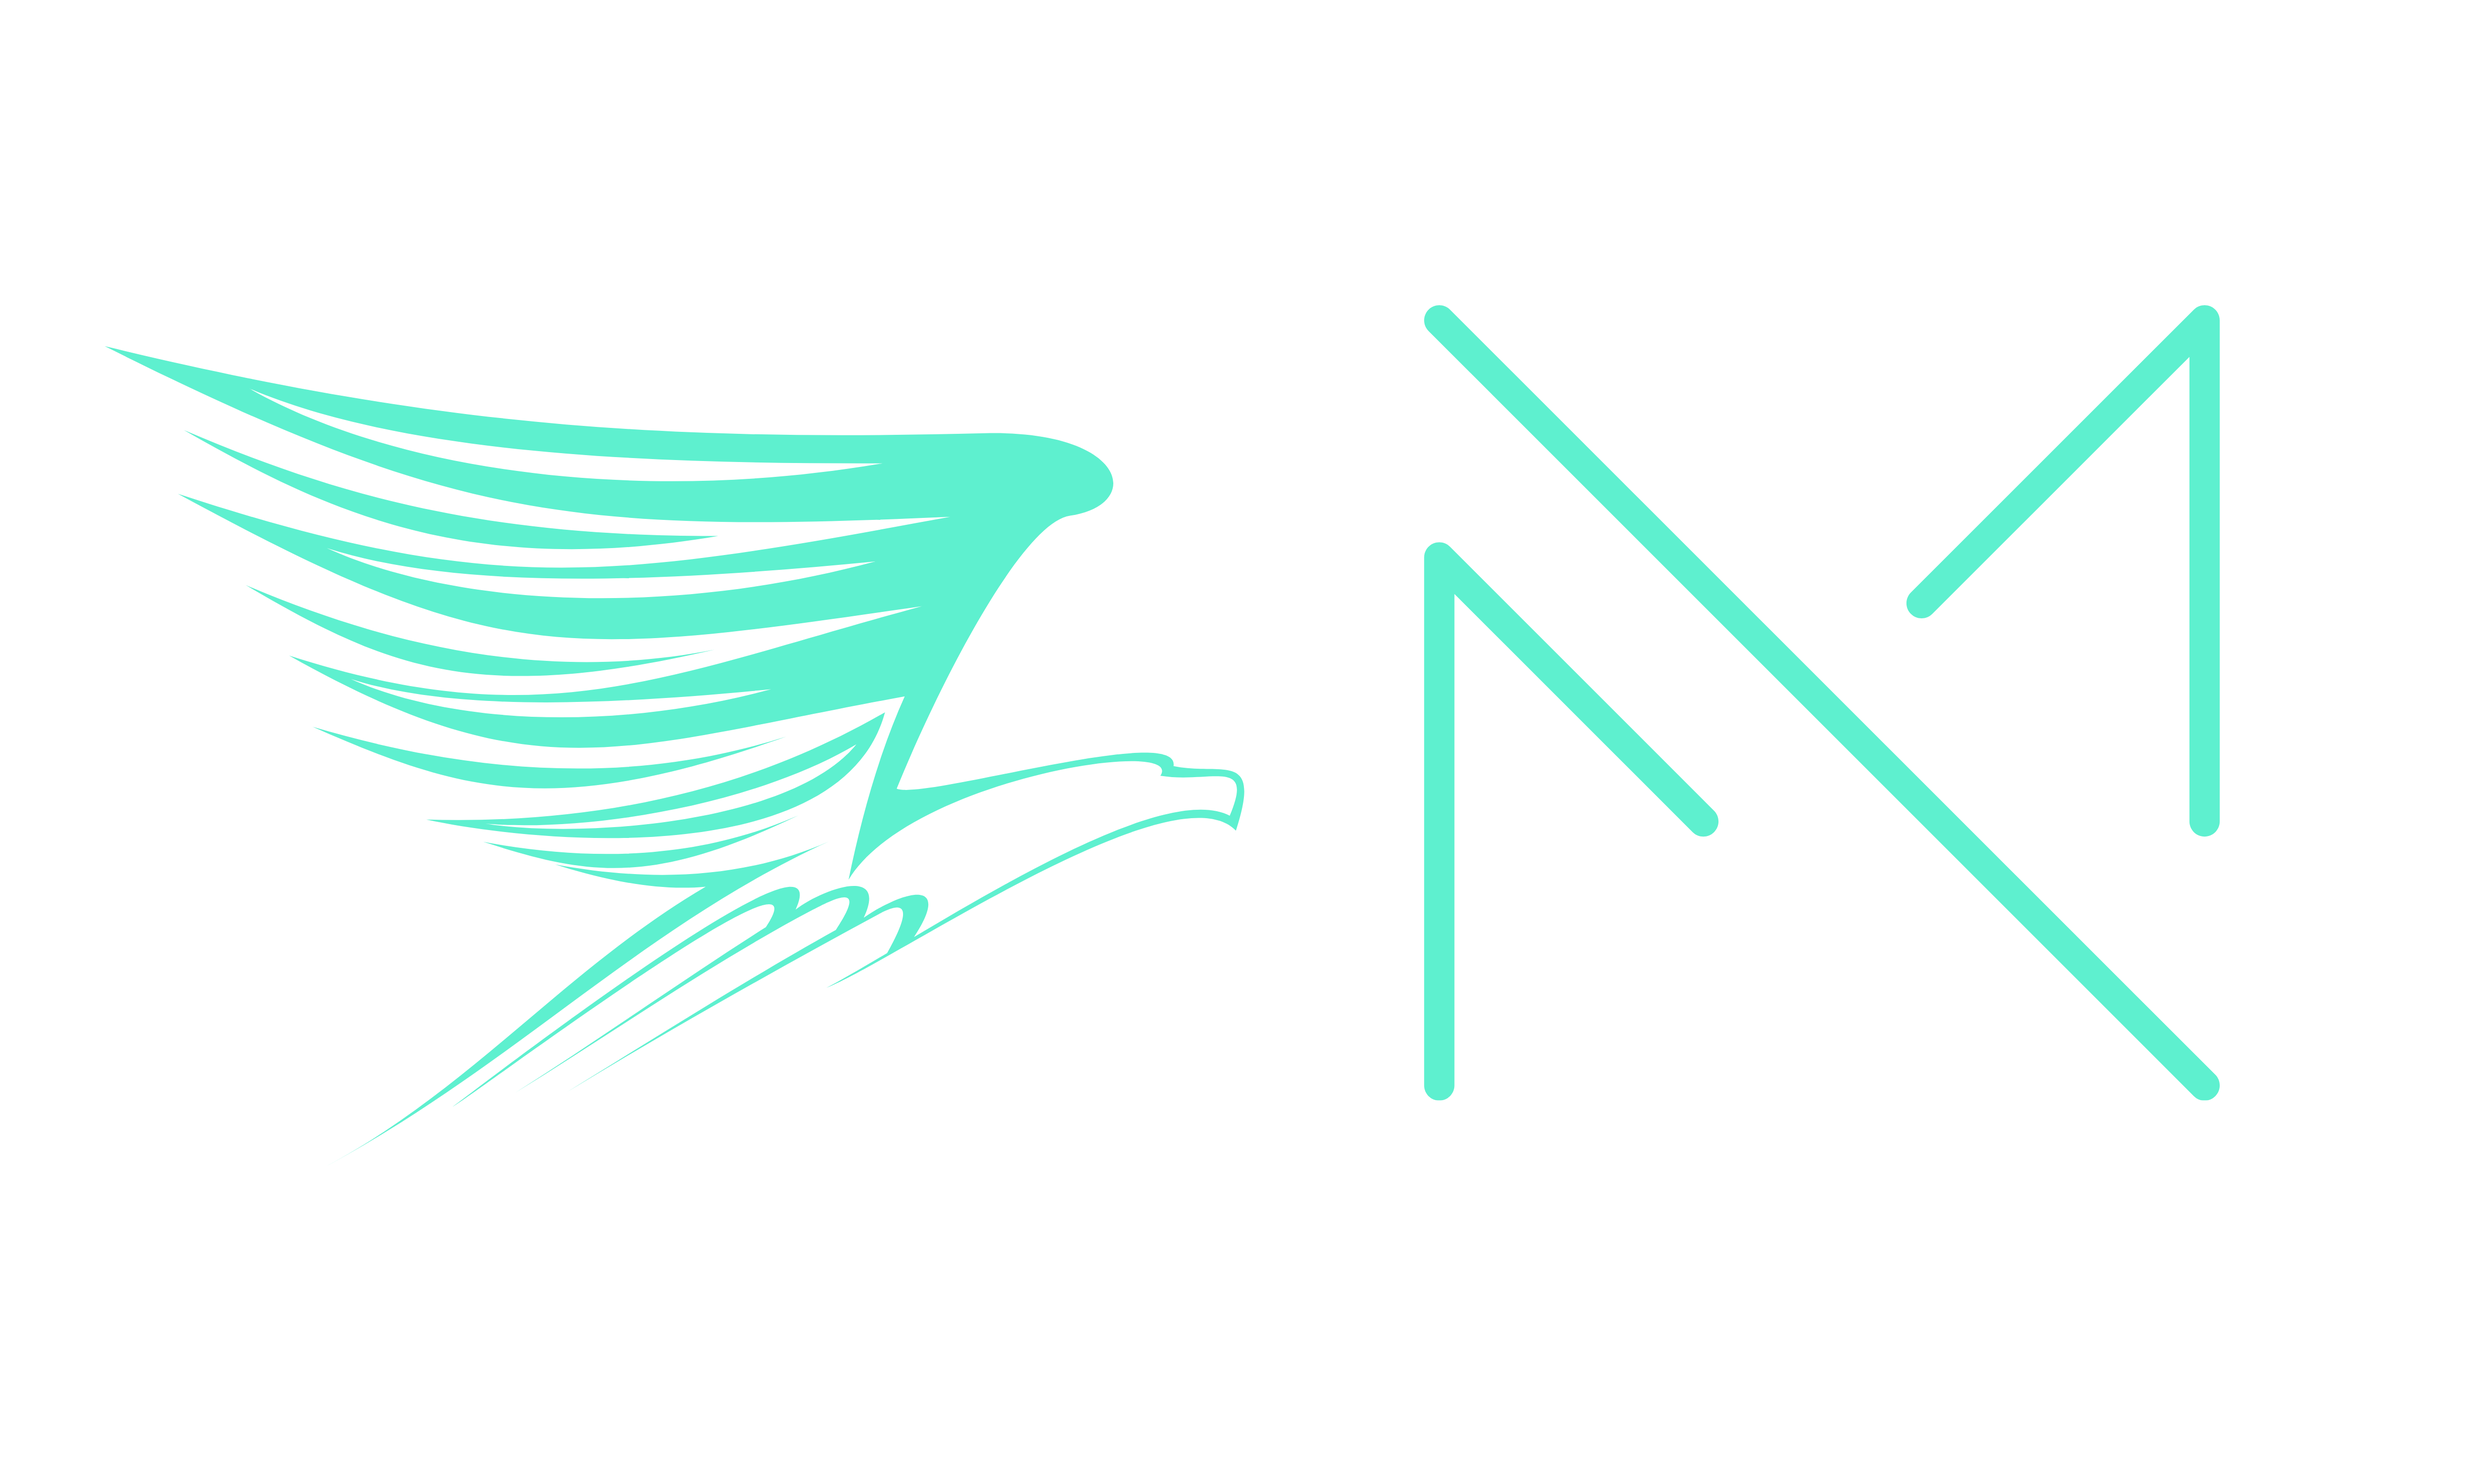
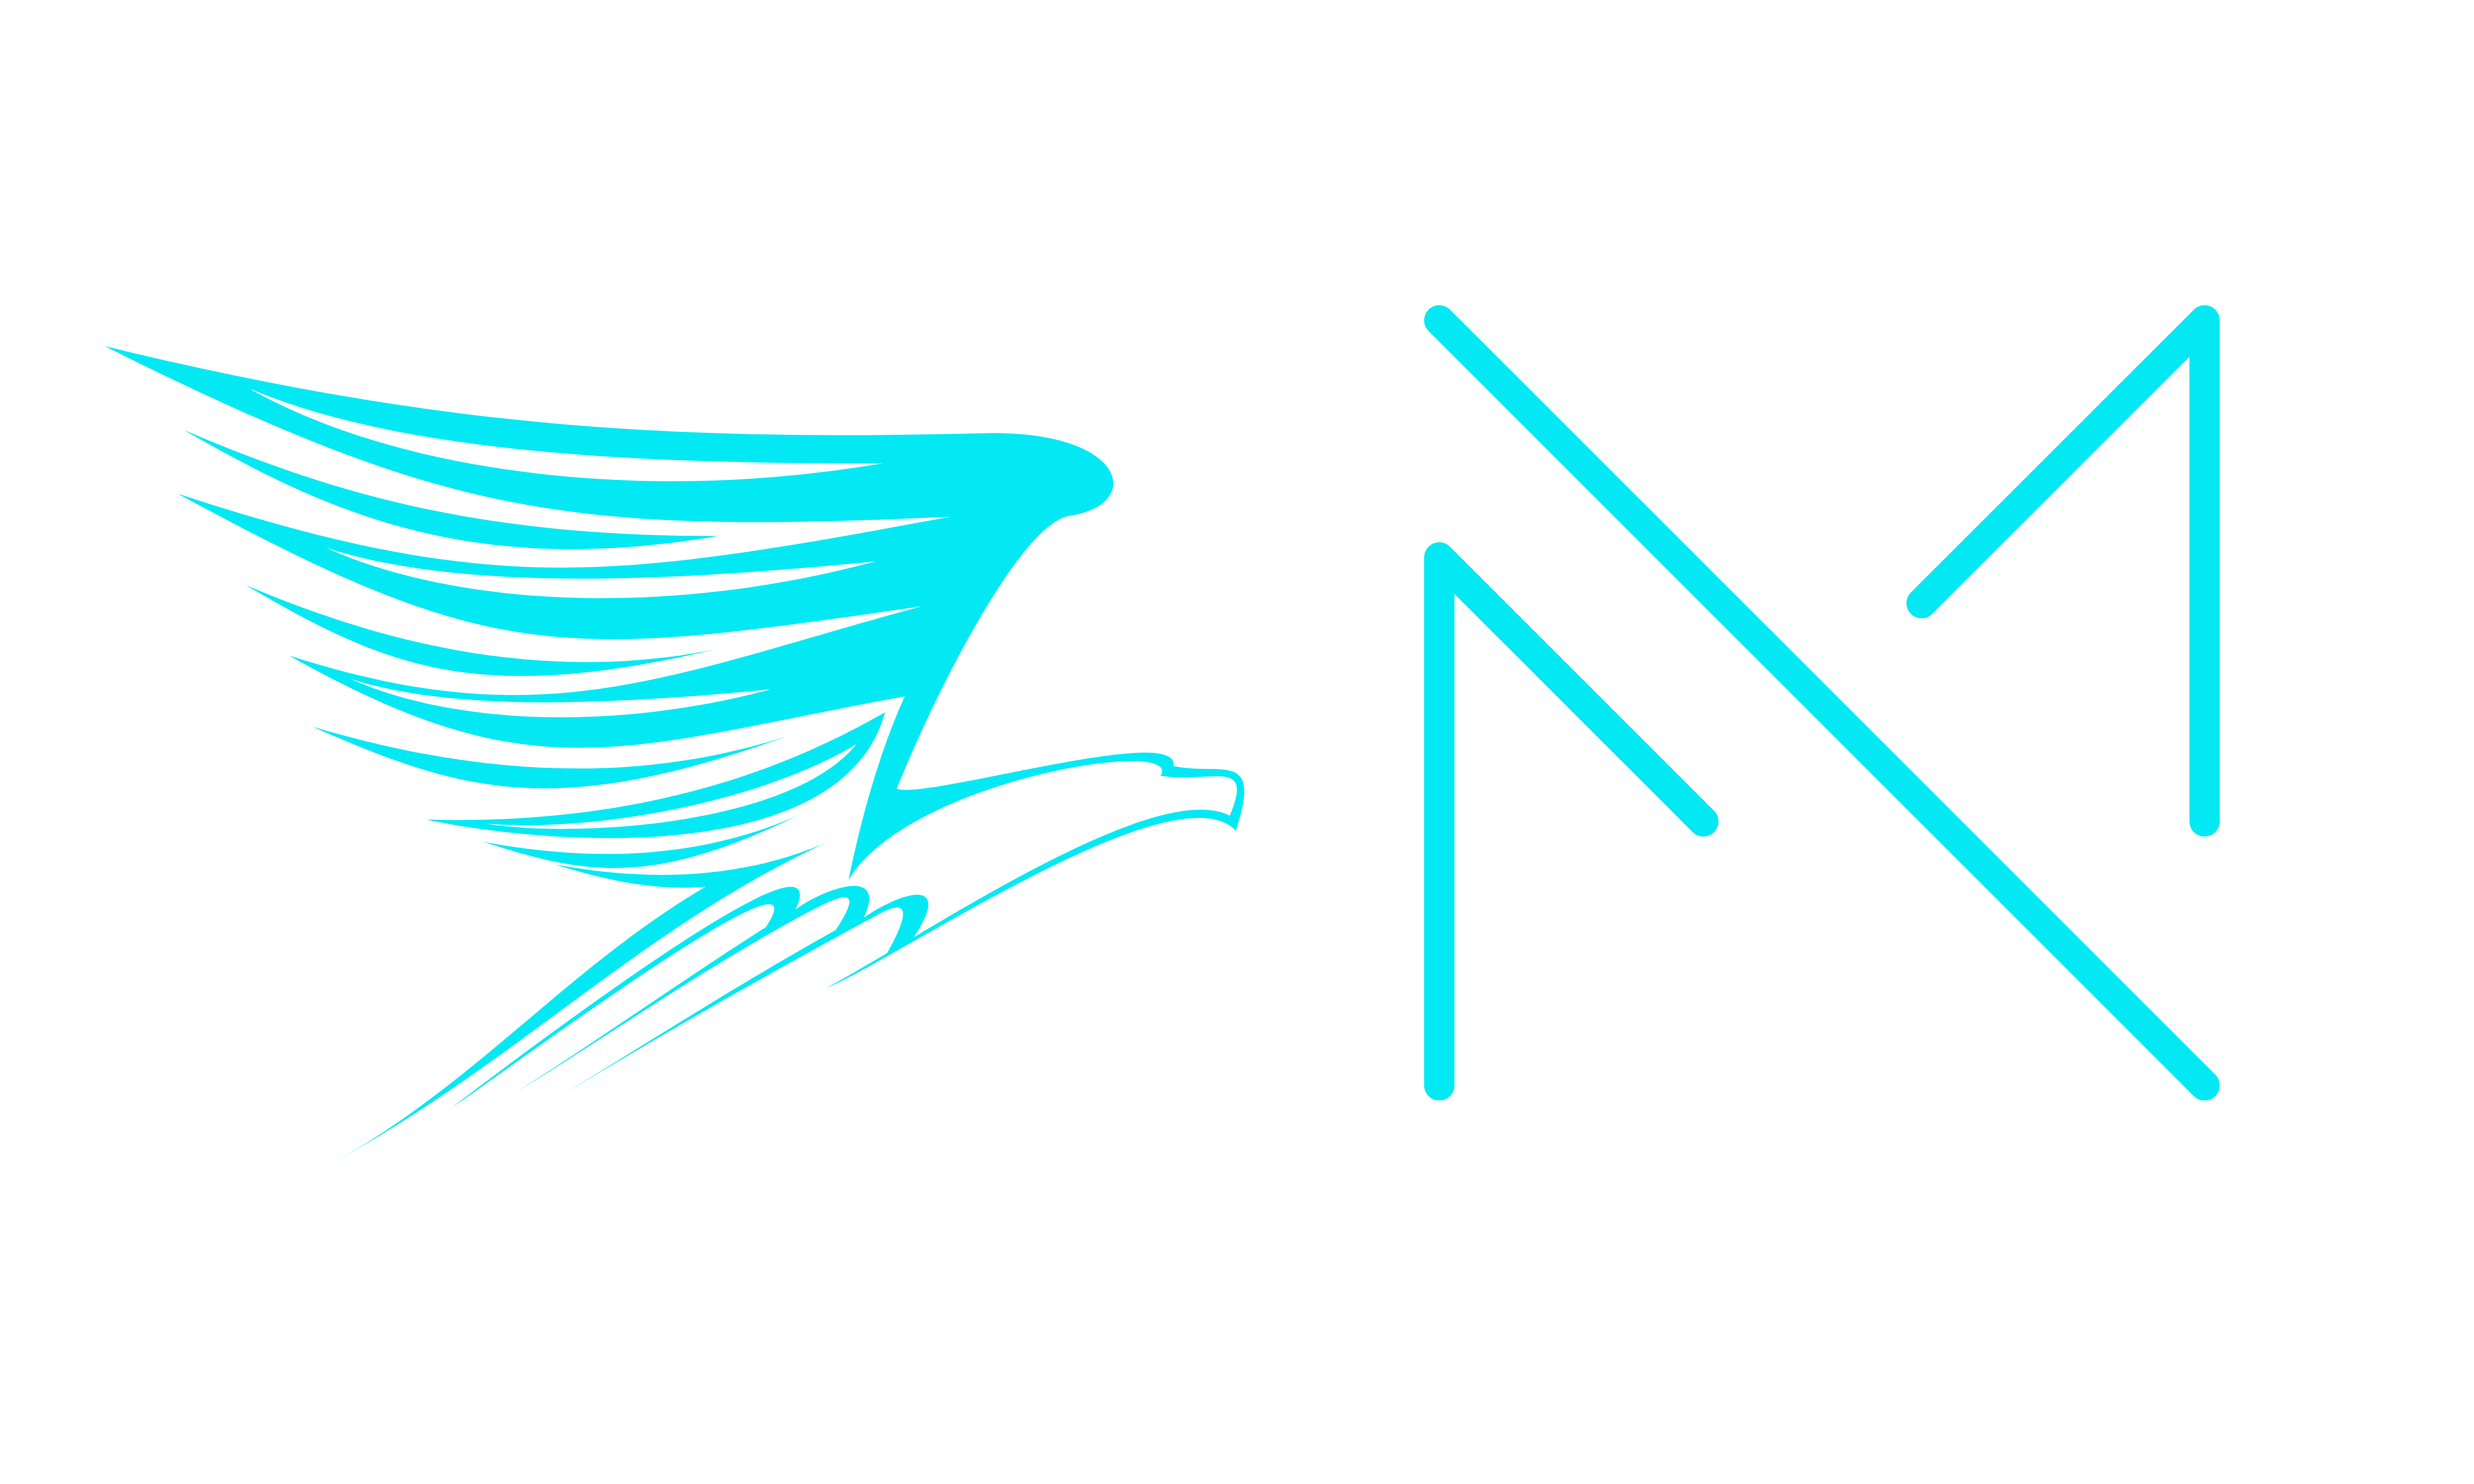
updated

diff --git a/style.css b/style.css
@@ -204,7 +204,16 @@ ul {
   right: -130px;
   transform: translate(-50%, -50%);
 }
-
+@media (max-width: 560px) {
+  ul {
+    flex-direction: column;
+    top: 170px;
+    right: -30px;
+  }
+  ul li {
+    margin-bottom: 15px !important;
+  }
+}
 ul li {
   list-style: none;
   margin: 0 15px;
@@ -232,7 +241,7 @@ ul li a::before {
   width: 100%;
   height: 100%;
   border-radius: 50%;
-  background: #5ae4c6;
+  background: #03e9f4;
   transition: 0.5s;
   transform: scale(0.9);
   z-index: -1;
@@ -240,25 +249,149 @@ ul li a::before {
 
 ul li a:hover::before {
   transform: scale(1.1);
-  box-shadow: 0 0 15px #5ae4c6;
+  box-shadow: 0 0 15px #03e9f4;
 }
 
 ul li a:hover {
-  color: #5ae4c6;
-  box-shadow: 0 0 5px #5ae4c6;
-  text-shadow: 0 0 5px #5ae4c6;
+  color: #03e9f4;
+  box-shadow: 0 0 5px #03e9f4;
+  text-shadow: 0 0 5px #03e9f4;
 }
 .get-in-touch {
   font-family: "Poppins", sans-serif !important;
 }
-.btn-say-hi {
-  padding: 15px 25px !important;
-  border-radius: 5px;
-  border: 1px solid grey !important ;
-  background-color: transparent;
-  color: white;
-  font-family: "Poppins", sans-serif;
+/* button say hello */
+.btn-say-hello-div {
+  display: flex;
+  justify-content: center;
+  align-items: center;
+
+  font-family: "Raleway", sans-serif;
+  font-weight: bold;
 }
-.btn-say-hi:hover {
-  background-color: rgb(22, 22, 22);
+.btn-say-hello {
+  position: relative;
+  display: inline-block;
+  padding: 30px;
+  margin-left: 40px;
+  color: #03e9f4;
+  text-decoration: none;
+  text-transform: uppercase;
+  transition: 0.5s;
+  letter-spacing: 4px;
+  overflow: hidden;
+  margin-right: 50px;
+}
+
+.btn-say-hello:hover {
+  background: #03e9f4;
+  color: #333;
+  box-shadow: 0 0 5px #03e9f4, 0 0 25px #03e9f4, 0 0 50px #03e9f4,
+    0 0 200px #03e9f4;
+  -webkit-box-reflect: below 1px linear-gradient(transparent, #0005);
+  text-decoration: none !important;
+}
+.btn-say-hello span {
+  position: absolute;
+  display: block;
+}
+
+.btn-say-hello span:nth-child(1) {
+  top: 0;
+  left: 0;
+  width: 100%;
+  height: 2px;
+  background: linear-gradient(90deg, transparent, #03e9f4);
+  animation: animate1 1s linear infinite;
+}
+
+@keyframes animate1 {
+  0% {
+    left: -100%;
+  }
+
+  50%,
+  100% {
+    left: 100%;
+  }
+}
+
+.btn-say-hello span:nth-child(2) {
+  top: -100%;
+  right: 0;
+  width: 2px;
+  height: 100%;
+  background: linear-gradient(180deg, transparent, #03e9f4);
+  animation: animate2 1s linear infinite;
+  animation-delay: 0.25s;
+}
+
+@keyframes animate2 {
+  0% {
+    top: -100%;
+  }
+
+  50%,
+  100% {
+    top: 100%;
+  }
+}
+
+.btn-say-hello span:nth-child(3) {
+  bottom: 0;
+  right: 0;
+  width: 100%;
+  height: 2px;
+  background: linear-gradient(270deg, transparent, #03e9f4);
+  animation: animate3 1s linear infinite;
+  animation-delay: 0.5s;
+}
+
+@keyframes animate3 {
+  0% {
+    right: -100%;
+  }
+
+  50%,
+  100% {
+    right: 100%;
+  }
+}
+
+.btn-say-hello span:nth-child(4) {
+  bottom: -100%;
+  left: 0;
+  width: 2px;
+  height: 100%;
+  background: linear-gradient(360deg, transparent, #03e9f4);
+  animation: animate4 1s linear infinite;
+  animation-delay: 0.75s;
+}
+
+@keyframes animate4 {
+  0% {
+    bottom: -100%;
+  }
+
+  50%,
+  100% {
+    bottom: 100%;
+  }
+}
+/* footer */
+
+.footer-main-div {
+  width: 100%;
+  background-color: transparent;
+  font-family: "Poppins", sans-serif !important;
+}
+.footer-main-div > footer > h5 {
+  margin-bottom: 0;
+  padding: 31px 0px;
+  text-align: center;
+  color: white !important;
+}
+.footer-main-div > footer > h5 > a {
+  text-decoration: none;
+  color: #03e9f4;
 }

diff --git a/index.html b/index.html
@@ -93,15 +93,38 @@
       class="d-flex justify-content-center flex-column align-items-center"
     >
       <h1 class="text-light get-in-touch">Get In Touch</h1>
-      <h5 class="text-light get-in-touch" style="text-align: center">
+      <h5 class="text-light get-in-touch m-5" style="text-align: center">
         Although I’m not currently looking for any new opportunities, my inbox
         <br />
         is always open. Whether you have a question or just want to say hi,
         <br />
         I’ll try my best to get back to you!
       </h5>
-      <button type="button" class="btn-say-hi">Primary</button>
+
+      <div class="btn-say-hello-div mt-5">
+        <a class="btn-say-hello" href="mailto:b.mukhsinjon@gmail.com">
+          <span></span>
+          <span></span>
+          <span></span>
+          <span></span>
+          Say Hello
+        </a>
+      </div>
     </section>
+
+    <div class="footer-main-div">
+      <footer>
+        <h5>
+          Created By
+          <a href="https://www.linkedin.com/in/bokijonov/">
+            Bokijonov Mukhsinjon
+          </a>
+          |
+          <i class="far fa-copyright"></i>
+          2022 All rights reserved.
+        </h5>
+      </footer>
+    </div>
 
     <script src="https://cdnjs.cloudflare.com/ajax/libs/gsap/3.5.1/gsap.min.js"></script>
     <script src="https://cdnjs.cloudflare.com/ajax/libs/parallax/3.1.0/parallax.min.js"></script>
